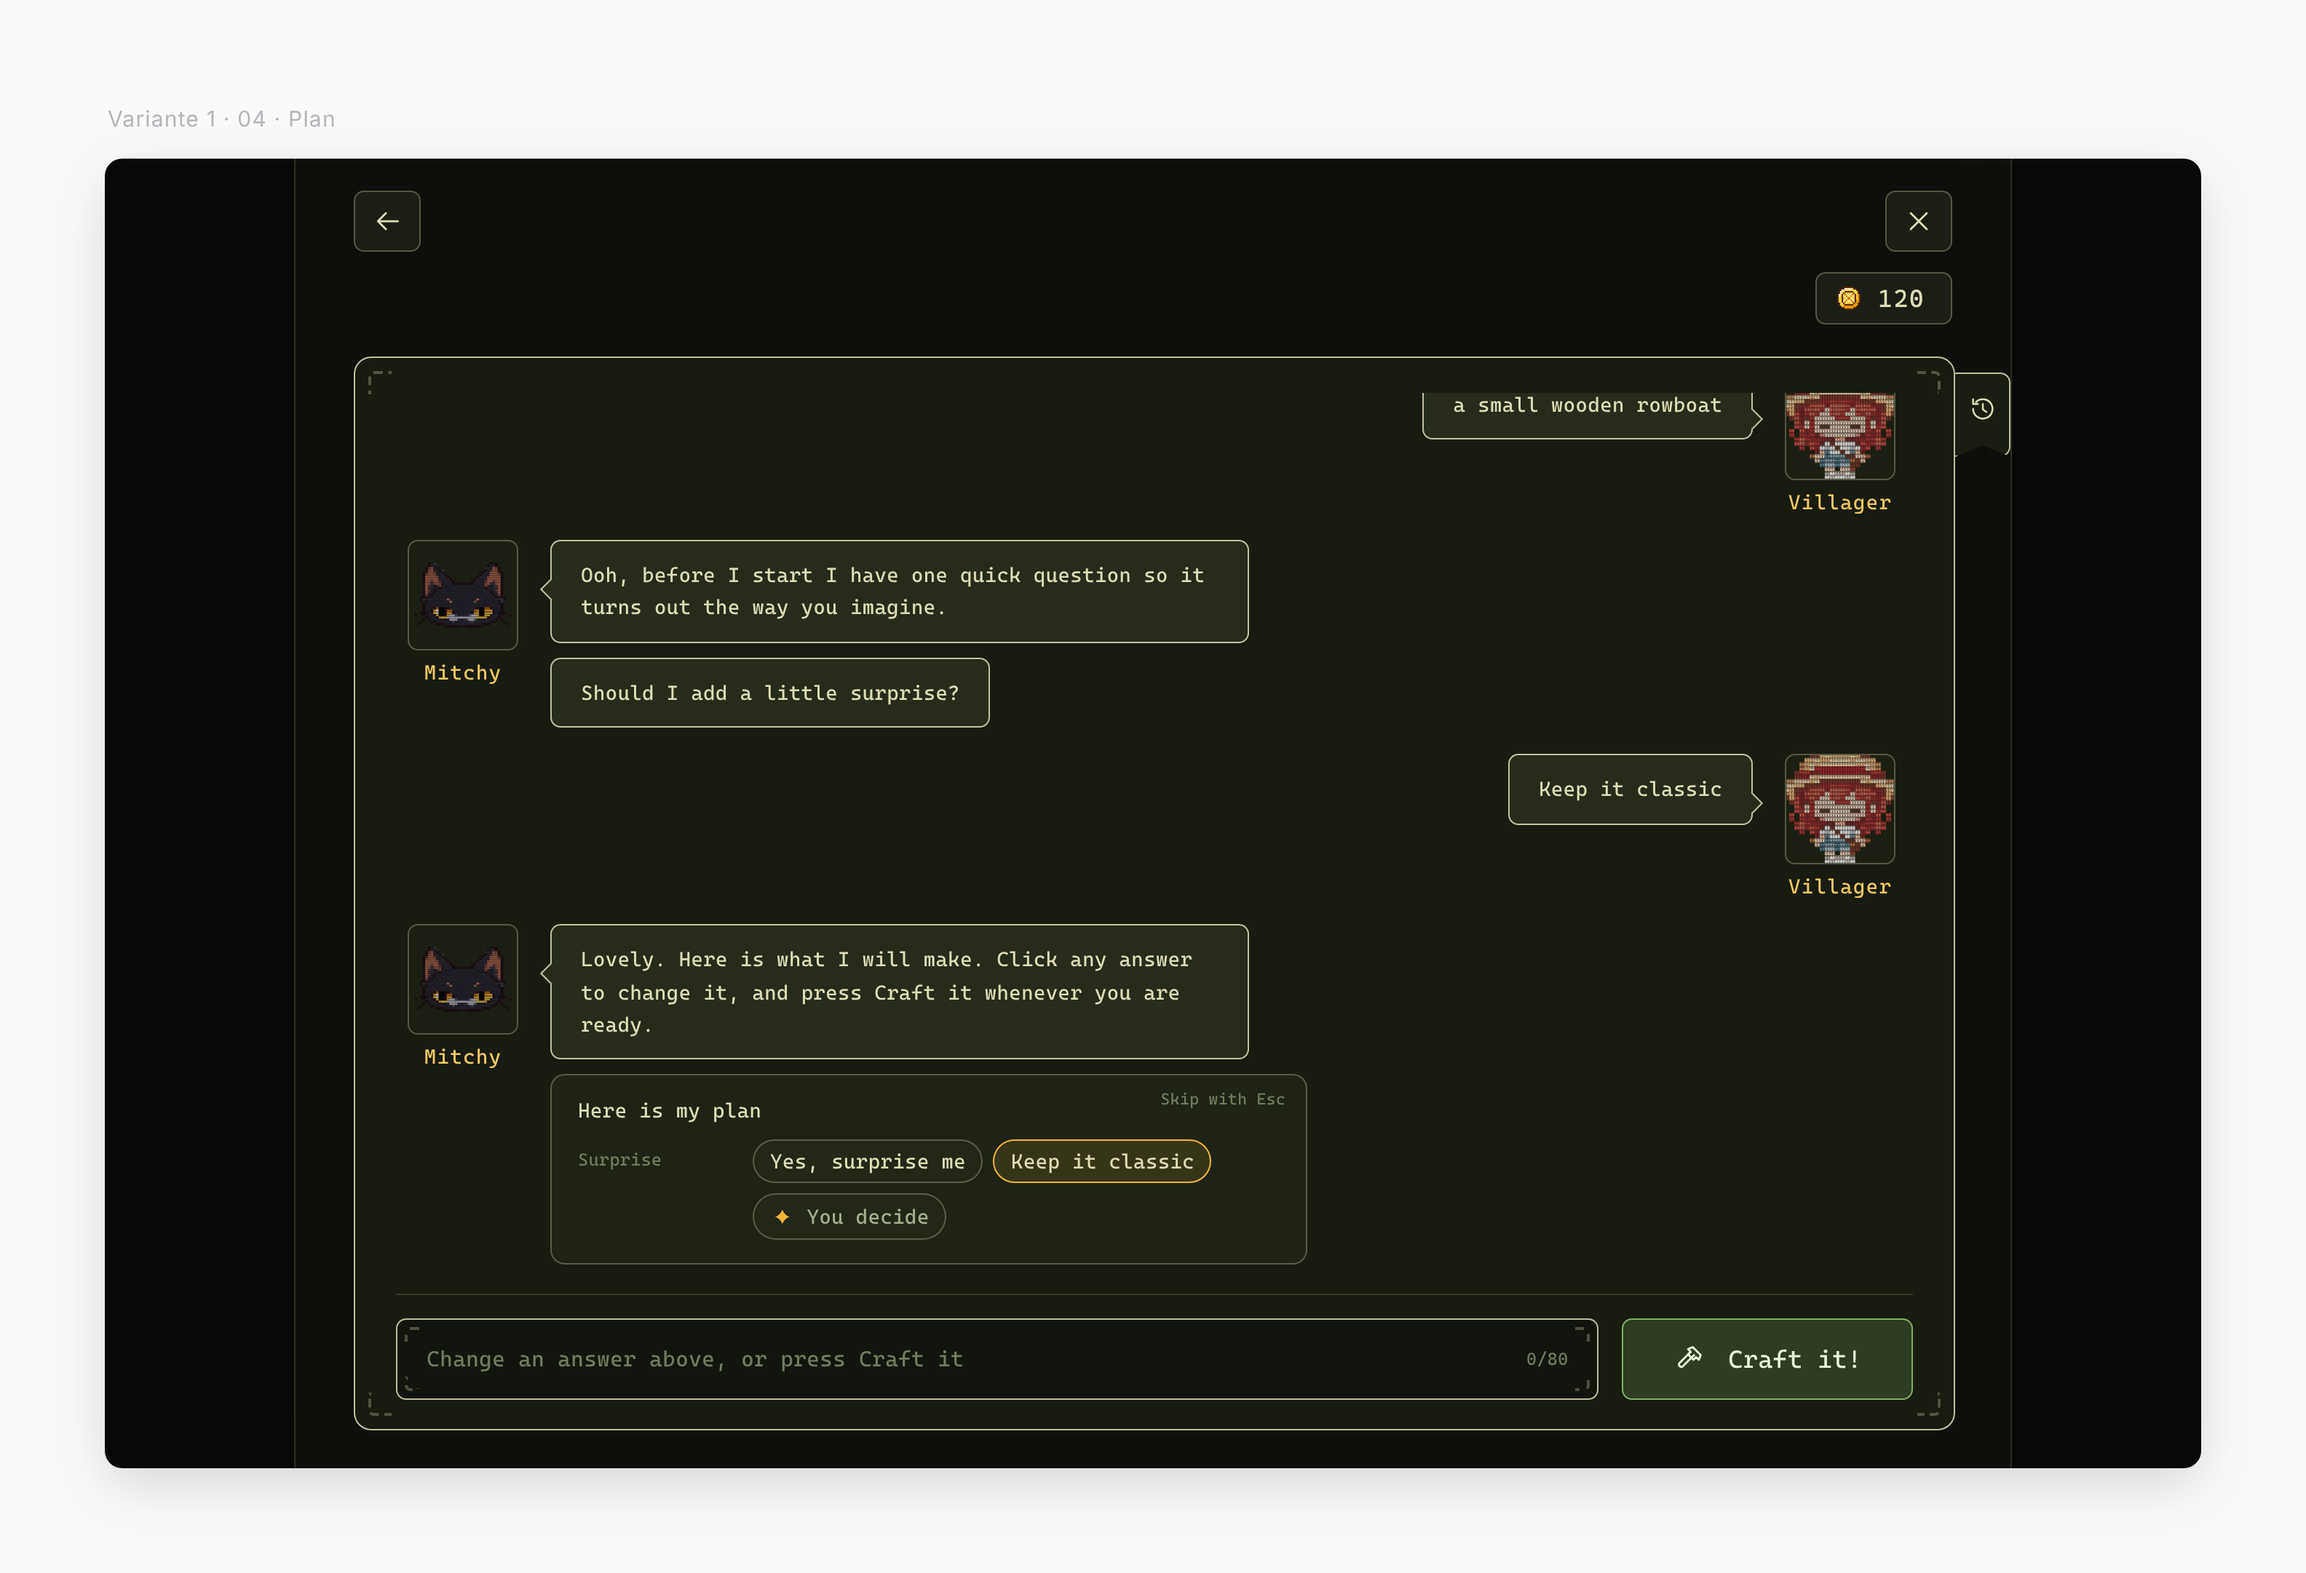
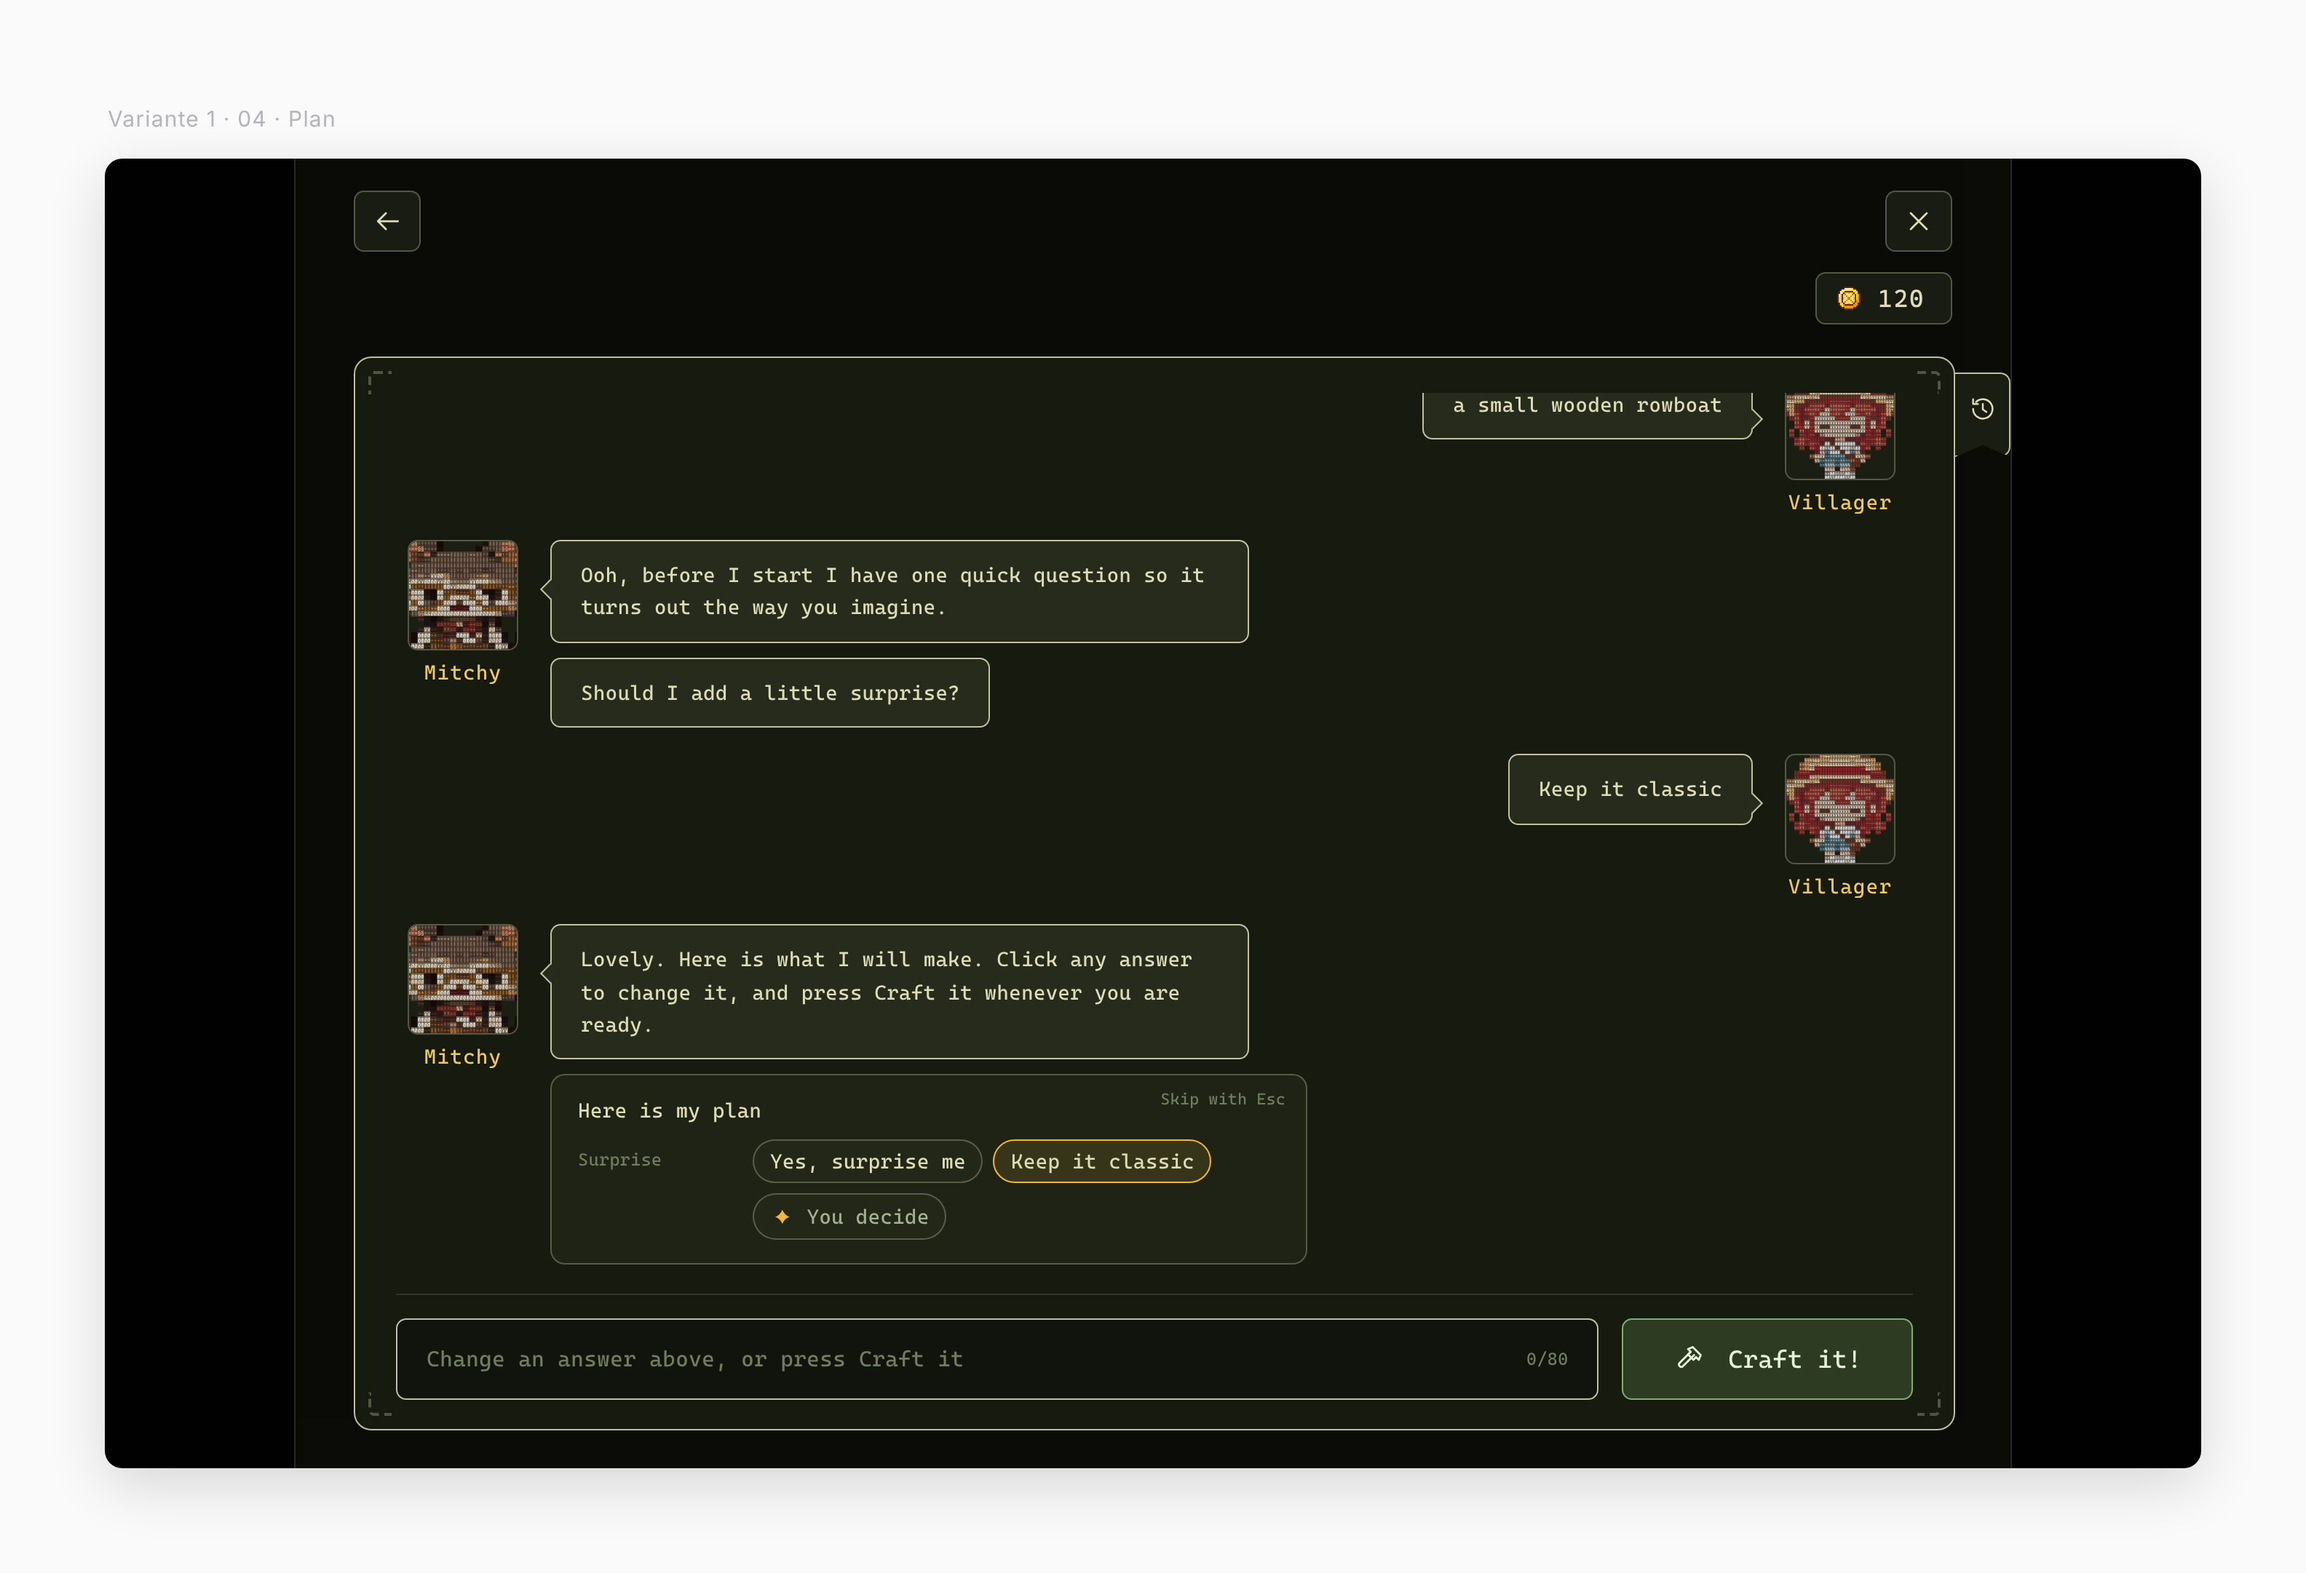
Design (crafting specs): V1 + V2 from the current panel with the discussed spacing
- states and run-throughs re-captured: prompt without corner brackets, Mitchy's
  close-up avatar
- measure pages: frame padding from the inner edge, chat-area padding, distances
  from the frame's outer edge (avatar 29 / 37, bubble 135, history tab 11),
  bottom row 16 · 1 · 16, prompt 826 x 56 with padding 18 20, craft hover,
  name LH 16 / gap 6 (Figma), the phone rules
- specs.md layout table updated to match

Claude-Session: https://claude.ai/code/session_01SdonzUkZukdS6Hs9N1LRbm

Changed region(s): [[0.1562, 0.3409, 0.25, 0.4339], [0.1562, 0.5888, 0.25, 0.6818]]

diff --git a/design/crafting-specs/specs.md b/design/crafting-specs/specs.md
@@ -12,17 +12,18 @@ Desktop 1440 × 900 · alle Werte in px · Schrift **Asciia Mono 400**
 | Back / Close | Icon-Button | 46 × 42 · r 7 · Rand 1 |
 | Corner | V · end | gap 14 |
 | Coins | H | 94 × 36 · pad 7 18 7 14 · gap 12 · 17 px · ls 0.5 |
-| Frame | V · fill · Fläche #1C2014 · 72 % | min(1100, 86vw) × fill · pad 24 28 20 28 · r 12 · Rand 1 · 85 % · Ecken 16 × 16, 2 px gestrichelt, 9 vom Rand |
-| Verlauf-Tab | rechts am Frame, 11 unter Oberkante | 38 × 58 · r 0 7 7 0 · Kerbe 8 · Rand oben + rechts · Icon 20 bei 8.5/15 · `shared/icons/bookmark(-hover).svg` |
-| Chat | V · scrollt | gap 18 · pad 4 8 4 4 |
+| Frame | V · fill · Fläche #1C2014 · 72 % | min(1100, 86vw) × fill · pad 24 28 20 28 ab Innenkante (+1 Rand) · r 12 · Rand 1 · 85 % · Ecken 16 × 16, 2 px gestrichelt, 9 vom Rand |
+| Verlauf-Tab | an der Außenkante rechts · 10 unter Innenkante (11 außen) | 38 × 58 · r 0 7 7 0 · Kerbe 8 · Rand oben + rechts · Icon 20 bei 8.5/15 · `shared/icons/bookmark(-hover).svg` |
+| Chat | V · scrollt · Clip | gap 18 · pad 4 8 4 4 (zusätzlich zum Frame-Padding) |
 | Msg | H (rechts: gespiegelt) | gap 18 |
-| Avatar | V | 84 breit · Box 76 × 76 · r 7 · gap 7 · Name 14 · ls 0.5 · #EFC862 · Mitchy: Close-up (`shared/portraits/mitchy-face`) füllt die Box |
+| Avatar | V | 84 breit · Box 76 × 76 · r 7 · Box ab Außenkante oben 29 · links 37 · Name 14 · LH 16 · ls 0.5 · #EFC862 · Abstand 6 (Figma; Spiel 7) · Mitchy: Close-up (`shared/portraits/mitchy-face`) füllt die Box |
 | Bubbles | V | gap 10 · Bubble max min(480, 64 %) |
-| Bubble | Text | pad 12 20 · r 7 · Rand 1 · 85 % · Fläche #262B1C · 14 / 22 |
+| Bubble | Text | pad 12 20 · r 7 · Rand 1 · 85 % · Fläche #262B1C · 14 / 22,4 · Schweif ragt 7 über · erste Bubble links 135 ab Außenkante |
 | Optionen | V · rechtsbündig | 360 breit · gap 8 · Option 360 × 40 · pad 11 30 · r 7 |
-| Bottom | H · Linie oben 1 | pt 16 · gap 16 |
-| Eingabe | H · fill | × 56 · pad 0 20 · gap 12 · Text 15 · Zähler 12 · r 7 · keine Ecken |
-| Craft | H | 200 × 56 · pad 0 34 · gap 16 · 17 px · r 7 |
+| Bottom | H · Linie oben 1 · #DEDDB6 15 % | 16 Abstand · Linie 1 · 16 · gap 16 |
+| Eingabe | H · fill | 826 × 56 · pad 18 20 · gap 12 · Text 15 · Zähler 12 · r 7 · keine Ecken |
+| Craft | H | 200 × 56 · pad 0 34 · gap 16 · 17 px · r 7 · inaktiv ganzer Button 45 % · aktiv Fläche #7FB069 22 % · Hover 34 % |
+| Mobil | ≤ 820 / ≤ 480 | Sheet seitlich 16 · Frame 100 % · pad 18 14 14 · Avatar 60 (Box 56) · Tab links über dem Frame · ≤ 480 Craft nur Hammer, Gap 10 |
 
 ## Icons & Schrift
 - **Schrift:** Asciia Mono ist Cascadia Code (Microsoft, frei: github.com/microsoft/cascadia-code). Installieren und in Figma „Cascadia Code“ Regular 400 wählen.
